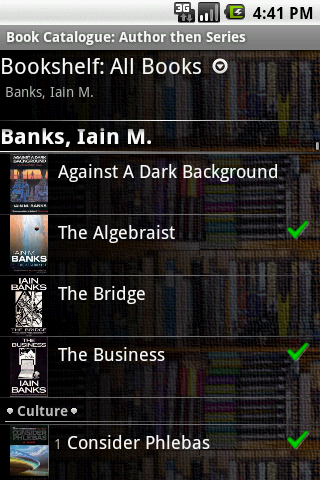
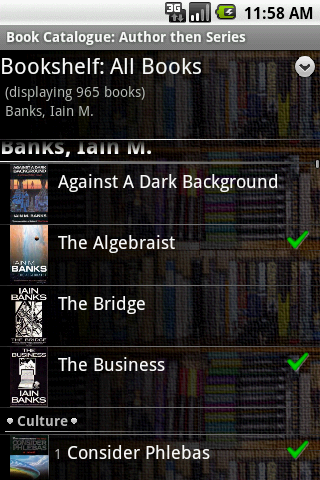
Final fix for tiled drawables. really
- no longer setting tiled in XML
- now sets CLAMPED befire TILED
- also added artwork

diff --git a/src/com/eleybourn/bookcatalogue/Utils.java b/src/com/eleybourn/bookcatalogue/Utils.java
@@ -1436,14 +1436,18 @@ public class Utils {
 			LayerDrawable ld = (LayerDrawable)d;
 			Drawable l = ld.getDrawable(0);
 			if (l instanceof BitmapDrawable) {
+				d.mutate();
+				l.mutate();
 				System.out.println("Layer0 is BMP");
 				BitmapDrawable bmp = (BitmapDrawable) l;
 				bmp.mutate(); // make sure that we aren't sharing state anymore
+				bmp.setTileModeXY(TileMode.CLAMP, TileMode.CLAMP);			
 				bmp.setTileModeXY(TileMode.REPEAT, TileMode.REPEAT);
 			}
 		} else if (d instanceof BitmapDrawable) {
 			BitmapDrawable bmp = (BitmapDrawable) d;
 			bmp.mutate(); // make sure that we aren't sharing state anymore
+			bmp.setTileModeXY(TileMode.CLAMP, TileMode.CLAMP);			
 			bmp.setTileModeXY(TileMode.REPEAT, TileMode.REPEAT);			
 		}
 		return d;
